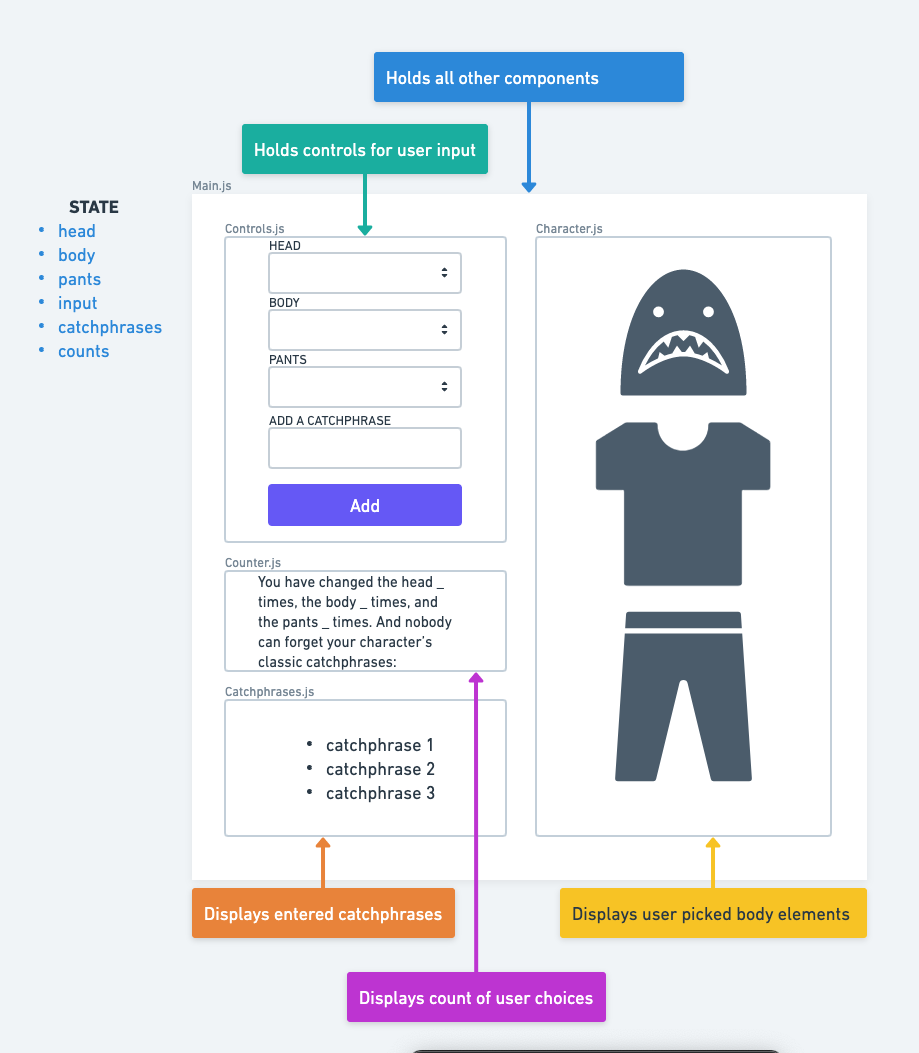
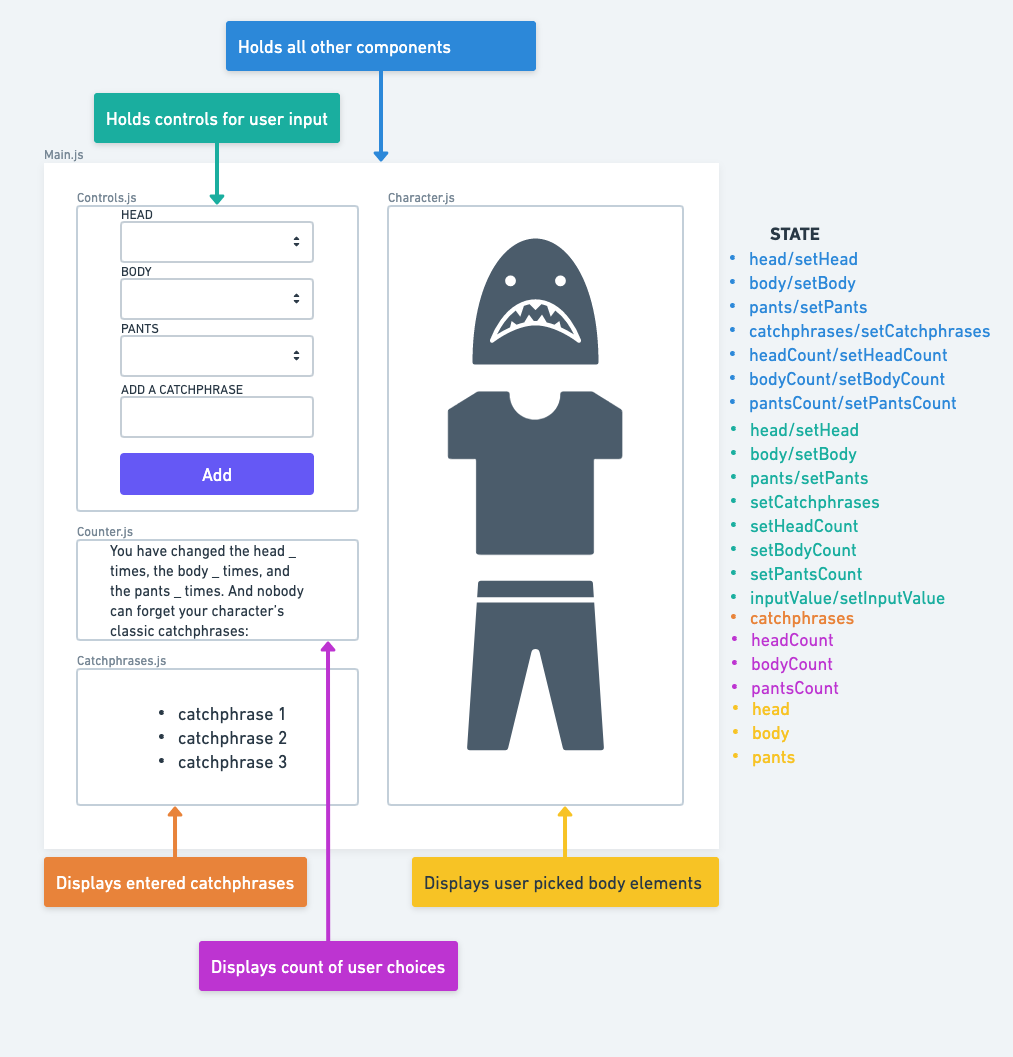
add high level styling and page organization

Changed region(s): [[0.0305, 0.0, 0.975, 1.0]]

diff --git a/src/components/main/Main.js b/src/components/main/Main.js
@@ -1,5 +1,25 @@
-import React from 'react';
+// import { React, useState } from 'react';
+
+import Character from '../character/Character';
+import Controls from '../controls/Controls';
+import Counter from '../counter/Counter';
+import Catchphrases from '../catchphrases/Catchphrases';
+
+import './Main.css';
 
 export default function Main() {
-  return <div>Main</div>;
+  return (
+    <main>
+      <section className="container">
+        <div className="left">
+          <Controls />
+          <Counter />
+          <Catchphrases />
+        </div>
+        <div className="right">
+          <Character />
+        </div>
+      </section>
+    </main>
+  );
 }

diff --git a/src/components/main/Main.css b/src/components/main/Main.css
@@ -1,0 +1,18 @@
+main {
+  background-color: antiquewhite;
+}
+
+.container {
+  display: flex;
+}
+
+.left,
+.right {
+  align-items: center;
+  border: 1px red solid;
+  display: flex;
+  flex-direction: column;
+  height: 100vh;
+  justify-content: flex-start;
+  width: 100%;
+}

diff --git a/src/components/controls/Controls.js b/src/components/controls/Controls.js
@@ -1,7 +1,7 @@
 import React from 'react';
 
-function Controls() {
-  return <div>controls</div>;
-}
+import './Controls.css';
 
-export default Controls;
+export default function Controls() {
+  return <div>Controls</div>;
+}

diff --git a/src/components/counter/Counter.js b/src/components/counter/Counter.js
@@ -1,7 +1,7 @@
 import React from 'react';
 
-function Counter() {
-  return <div>counter</div>;
-}
+import './Counter.css';
 
-export default Counter;
+export default function Counter() {
+  return <div>Counter</div>;
+}

diff --git a/src/components/catchphrases/Catchphrases.js b/src/components/catchphrases/Catchphrases.js
@@ -1,7 +1,7 @@
 import React from 'react';
 
-function Catchphrases() {
+import './Catchphrases.css';
+
+export default function Catchphrases() {
   return <div>Catchphrases</div>;
 }
-
-export default Catchphrases;

diff --git a/src/components/character/Character.js b/src/components/character/Character.js
@@ -1,7 +1,7 @@
 import React from 'react';
 
-function Character() {
+import './Character.css';
+
+export default function Character() {
   return <div>Character</div>;
 }
-
-export default Character;
